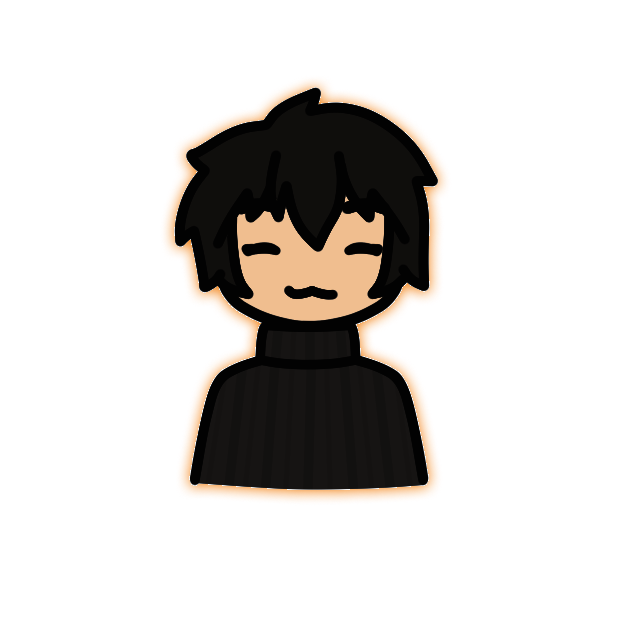
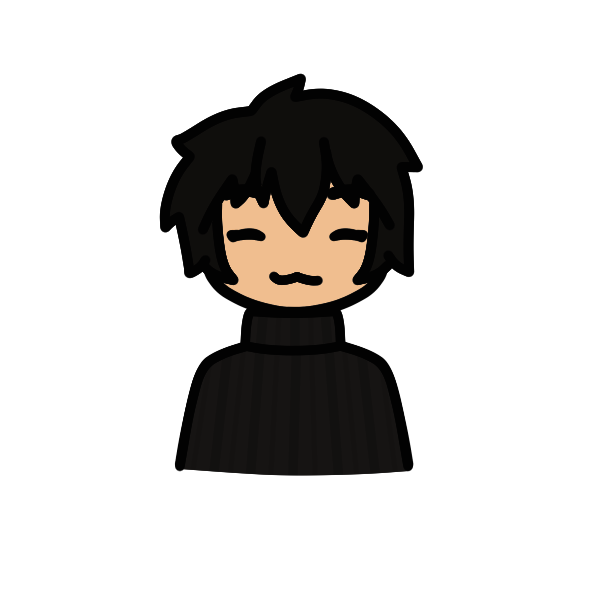
know me section

Changed region(s): [[0.24, 0.12, 0.72, 0.81], [0.48, 0.39, 0.51, 0.42]]

diff --git a/css/Styles.css b/css/Styles.css
@@ -13,8 +13,10 @@
   --orange: #F27D0B;
   --gray: #3F3D3D;
   /* Border */
-  --border-radius: 15px;
-  --tittles-size: 60px;
+  --border-radius: 20px;
+  --tittles-size: 72px;
+  --p-size: 20px;
+  --p-weight: 300;
 }
 
 /* Restablecer márgenes, rellenos y modelo de caja para todos los elementos */
@@ -24,6 +26,8 @@
   box-sizing: border-box;
   font-family: 'Ubuntu', sans-serif;
 }
+
+
 
 html {
   font-size: 16px;
@@ -35,6 +39,18 @@ body {
 
 .gap {
   margin: 0 20px;
+}
+
+.span-orange{
+  font-style: italic;
+  color: var(--orange);
+  font-weight: 500;
+}
+
+.span-pink{
+  font-style: italic;
+  color: var(--pink);
+  font-weight: 500;
 }
 
 
@@ -72,7 +88,7 @@ header nav ul li a.nav-link:hover {
 }
 
 header .my-hero {
-  padding: 8% 0;
+  padding: 13% 0;
   color: var(--text-color);
   margin: 0 auto;
   text-align: center;
@@ -111,15 +127,65 @@ header .my-hero button {
   font-size: 1.5rem;
   font-weight: 500;
   margin-top: 3rem;
-  border: none;
   padding: 20px 100px;
   color: var(--text-color);
-  border-radius: 25px;
+  border: none;
+  border-radius: var(--border-radius);
   background: linear-gradient(270deg, #F27D0B 0.32%, rgba(242, 125, 11, 0.00) 71.37%);
   box-shadow: 0px 4px 4px 0px rgba(0, 0, 0, 0.25);
+  transition: .5s;
+}
+
+header .my-hero button:hover {
+  transform: scale(.9);
 }
 
 
+
+/* --------------------------------------------------------------------------------------------------------- */
+/* RESPONSIVE DESIGN */
+/* --------------------------------------------------------------------------------------------------------- */
+
+#know-me{
+  padding: rem;
+  color: var(--text-color);
+  position: relative;
+  z-index: 1;
+}
+
+#know-me::before{
+  content: "";
+  height: 1000px;
+  width: 1000px;
+  background: url(../img/back-blur.png);
+  background-size: cover;
+  transform: rotate(50deg);
+  position: absolute;
+  z-index: 10;
+  right: -215px;
+  top: 0;
+}
+
+#know-me .know-me-area{
+  padding: 2rem;
+}
+
+#know-me h2{
+  font-size: var(--tittles-size);
+  margin-bottom: 30px;
+}
+
+#know-me p{
+  font-size: var(--p-size);
+  font-weight: var(--p-weight);
+  width: 80%;
+  word-wrap: break-word;  
+}
+
+#know-me .know-me-avatar{
+  position: relative;
+  z-index: 100;
+}
 
 
 

diff --git a/index.html b/index.html
@@ -73,7 +73,24 @@
   <main>
 
     <!-- KNOW ME SECTION -->
-    <section id="know-me"></section>
+    <section class="container" id="know-me" >
+
+      <div class="row justify-content-center align-items-center">
+
+        <div class="col-lg-6 text-start know-me-area">
+          <h2>Know me</h2>
+          <p>Hey there! Let me introduce myself. I'm Cristian, a junior developer with a passion for <span class="span-orange"> agile development</span>. I mainly work on  backend projects using <span class="span-orange">Java</span> , but I'm also pretty into web development, where I have a blast creating cool websites with <span class="span-orange">JavaScript</span> . I'm always stoked about learning new stuff and diving into exciting projects that challenge and expand my skills.</p>
+        </div>
+
+        <div class="col-lg-6 justify-content-center know-me-avatar">
+          <figure>
+            <img src="./img/avatar.png" alt="my avatar">
+          </figure>
+        </div>
+
+      </div>
+
+    </section>
 
     <!-- TECHNOLOGIES SECTION -->
     <section id="technologies"></section>
